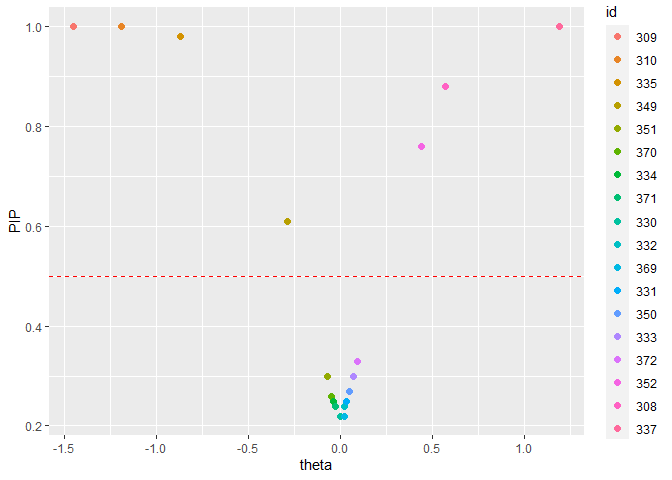
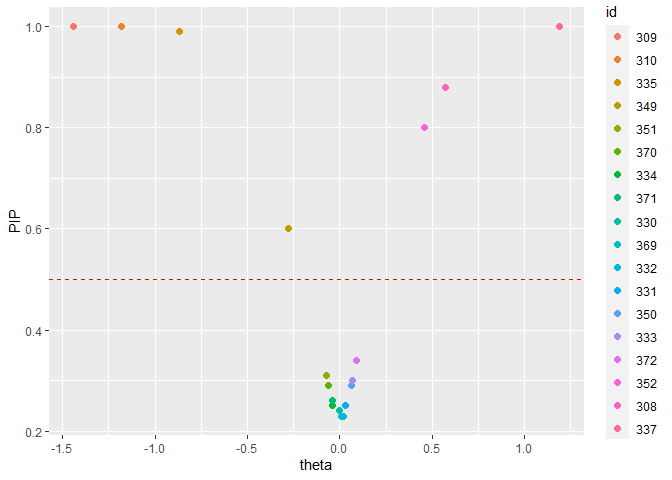
update README

diff --git a/README.md b/README.md
@@ -58,9 +58,9 @@ posterior_summary(alpha, ci = 0.90, digits = 2)
 #> Call: ss_ranef_alpha(y = d$y, unit = d$Subject)
 #> 
 #>       Post.mean q05   q95 
-#> alpha 0.09      -0.08 0.25
+#> alpha 0.08      -0.08 0.24
 #> sigma 0.79       0.72 0.86
-#> tau   1.00       0.62 1.63
+#> tau   0.95       0.62 1.41
 ```
 
 ``` r
@@ -69,24 +69,24 @@ ranef_summary(alpha, ci = 0.95, digits = 2)
 #> Call: ss_ranef_alpha(y = d$y, unit = d$Subject)
 #> 
 #>           Post.mean q025  q975  PIP  BF_10   BF_01
-#> theta_308  0.57      0.00  1.12 0.88    7.25 0.14 
-#> theta_309 -1.45     -1.97 -0.92 1.00     Inf 0.00 
-#> theta_310 -1.19     -1.71 -0.65 1.00 1999.00 0.00 
-#> theta_330  0.00     -0.32  0.29 0.22    0.28 3.58 
-#> theta_331  0.03     -0.23  0.44 0.25    0.34 2.94 
-#> theta_332  0.02     -0.26  0.40 0.24    0.31 3.21 
-#> theta_333  0.07     -0.11  0.60 0.30    0.42 2.38 
-#> theta_334 -0.04     -0.48  0.17 0.25    0.33 3.05 
-#> theta_335 -0.87     -1.40 -0.26 0.98   60.54 0.02 
-#> theta_337  1.19      0.66  1.69 1.00     Inf 0.00 
-#> theta_349 -0.29     -0.93  0.00 0.61    1.54 0.65 
-#> theta_350  0.05     -0.14  0.52 0.27    0.36 2.75 
-#> theta_351 -0.07     -0.58  0.14 0.30    0.42 2.39 
-#> theta_352  0.44      0.00  1.05 0.76    3.24 0.31 
-#> theta_369  0.02     -0.23  0.39 0.22    0.29 3.47 
-#> theta_370 -0.05     -0.56  0.15 0.26    0.35 2.89 
-#> theta_371 -0.03     -0.46  0.17 0.24    0.31 3.20 
-#> theta_372  0.09     -0.11  0.63 0.33    0.49 2.06
+#> theta_308  0.57      0.00  1.13 0.88    7.33 0.14 
+#> theta_309 -1.44     -1.96 -0.92 1.00     Inf 0.00 
+#> theta_310 -1.18     -1.70 -0.68 1.00 3999.00 0.00 
+#> theta_330  0.00     -0.31  0.32 0.24    0.31 3.22 
+#> theta_331  0.03     -0.20  0.45 0.25    0.33 3.04 
+#> theta_332  0.02     -0.23  0.42 0.23    0.31 3.26 
+#> theta_333  0.07     -0.11  0.60 0.30    0.43 2.30 
+#> theta_334 -0.04     -0.49  0.17 0.25    0.34 2.98 
+#> theta_335 -0.87     -1.38 -0.32 0.99  116.65 0.01 
+#> theta_337  1.19      0.69  1.69 1.00 1999.00 0.00 
+#> theta_349 -0.28     -0.92  0.00 0.60    1.47 0.68 
+#> theta_350  0.06     -0.15  0.57 0.29    0.40 2.49 
+#> theta_351 -0.07     -0.57  0.14 0.31    0.44 2.28 
+#> theta_352  0.46      0.00  1.06 0.80    4.13 0.24 
+#> theta_369  0.01     -0.26  0.37 0.23    0.30 3.30 
+#> theta_370 -0.06     -0.56  0.14 0.29    0.41 2.42 
+#> theta_371 -0.04     -0.47  0.16 0.26    0.34 2.90 
+#> theta_372  0.09     -0.10  0.63 0.34    0.52 1.92
 ```
 
 ``` r
@@ -119,12 +119,12 @@ posterior_summary(beta, digits = 2)
 #> Call: ss_ranef_beta(y = d$y, X = d$Days, unit = d$Subject)
 #> 
 #>       Post.mean q05   q95  
-#> alpha -0.83     -1.02 -0.64
-#> beta   0.18      0.15  0.22
-#> sigma  0.47      0.42  0.51
-#> tau1   0.43      0.26  0.65
-#> tau2   0.17      0.09  0.26
-#> rho    0.11     -0.43  0.64
+#> alpha -0.85     -1.05 -0.64
+#> beta   0.19      0.15  0.23
+#> sigma  0.47      0.43  0.52
+#> tau1   0.42      0.23  0.67
+#> tau2   0.17      0.10  0.34
+#> rho    0.17     -0.37  0.83
 ```
 
 ``` r
@@ -133,42 +133,42 @@ ranef_summary(beta, digits = 2)
 #> Call: ss_ranef_beta(y = d$y, X = d$Days, unit = d$Subject)
 #> 
 #>            Post.mean q05   q95   PIP  BF_10  BF_01
-#> theta1_308  0.00     -0.40  0.40   NA     NA   NA 
-#> theta1_309 -0.63     -1.06 -0.21   NA     NA   NA 
-#> theta1_310 -0.66     -1.17 -0.19   NA     NA   NA 
-#> theta1_330  0.31     -0.09  0.78   NA     NA   NA 
-#> theta1_331  0.26     -0.09  0.68   NA     NA   NA 
-#> theta1_332  0.14     -0.18  0.47   NA     NA   NA 
-#> theta1_333  0.28     -0.04  0.62   NA     NA   NA 
-#> theta1_334 -0.08     -0.41  0.24   NA     NA   NA 
-#> theta1_335  0.02     -0.37  0.44   NA     NA   NA 
-#> theta1_337  0.52      0.11  0.95   NA     NA   NA 
-#> theta1_349 -0.37     -0.72 -0.05   NA     NA   NA 
-#> theta1_350 -0.21     -0.66  0.24   NA     NA   NA 
-#> theta1_351 -0.03     -0.37  0.35   NA     NA   NA 
-#> theta1_352  0.43      0.02  0.82   NA     NA   NA 
-#> theta1_369  0.09     -0.23  0.42   NA     NA   NA 
-#> theta1_370 -0.36     -0.80  0.04   NA     NA   NA 
-#> theta1_371 -0.03     -0.37  0.32   NA     NA   NA 
-#> theta1_372  0.27     -0.07  0.60   NA     NA   NA 
-#> theta2_308  0.17      0.09  0.26 0.99 165.67 0.01 
-#> theta2_309 -0.17     -0.25 -0.08 1.00 570.43 0.00 
-#> theta2_310 -0.10     -0.20  0.00 0.83   4.76 0.21 
-#> theta2_330 -0.06     -0.16  0.00 0.65   1.88 0.53 
-#> theta2_331 -0.02     -0.11  0.00 0.40   0.66 1.51 
-#> theta2_332  0.00     -0.05  0.03 0.24   0.32 3.11 
-#> theta2_333  0.00     -0.04  0.03 0.23   0.30 3.32 
-#> theta2_334  0.01     -0.02  0.07 0.29   0.41 2.43 
+#> theta1_308  0.03     -0.39  0.40   NA     NA   NA 
+#> theta1_309 -0.59     -1.05 -0.19   NA     NA   NA 
+#> theta1_310 -0.63     -1.14 -0.19   NA     NA   NA 
+#> theta1_330  0.30     -0.10  0.81   NA     NA   NA 
+#> theta1_331  0.26     -0.10  0.71   NA     NA   NA 
+#> theta1_332  0.14     -0.19  0.48   NA     NA   NA 
+#> theta1_333  0.26     -0.05  0.60   NA     NA   NA 
+#> theta1_334 -0.07     -0.38  0.23   NA     NA   NA 
+#> theta1_335  0.02     -0.38  0.46   NA     NA   NA 
+#> theta1_337  0.55      0.16  0.99   NA     NA   NA 
+#> theta1_349 -0.36     -0.72 -0.04   NA     NA   NA 
+#> theta1_350 -0.15     -0.61  0.29   NA     NA   NA 
+#> theta1_351 -0.04     -0.39  0.36   NA     NA   NA 
+#> theta1_352  0.43      0.00  0.86   NA     NA   NA 
+#> theta1_369  0.10     -0.21  0.43   NA     NA   NA 
+#> theta1_370 -0.31     -0.79  0.08   NA     NA   NA 
+#> theta1_371 -0.04     -0.37  0.29   NA     NA   NA 
+#> theta1_372  0.26     -0.06  0.62   NA     NA   NA 
+#> theta2_308  0.17      0.09  0.25 1.00 499.00 0.00 
+#> theta2_309 -0.18     -0.26 -0.08 0.99  84.11 0.01 
+#> theta2_310 -0.11     -0.20  0.00 0.86   6.33 0.16 
+#> theta2_330 -0.06     -0.16  0.00 0.66   1.93 0.52 
+#> theta2_331 -0.02     -0.12  0.00 0.41   0.68 1.46 
+#> theta2_332  0.00     -0.04  0.03 0.24   0.31 3.24 
+#> theta2_333  0.00     -0.04  0.05 0.26   0.36 2.79 
+#> theta2_334  0.01     -0.02  0.06 0.24   0.32 3.09 
 #> theta2_335 -0.20     -0.28 -0.12 1.00    Inf 0.00 
-#> theta2_337  0.17      0.09  0.26 0.99 141.86 0.01 
-#> theta2_349  0.01     -0.02  0.06 0.25   0.33 3.05 
-#> theta2_350  0.11      0.00  0.20 0.90   9.44 0.11 
-#> theta2_351 -0.03     -0.12  0.00 0.42   0.73 1.37 
-#> theta2_352  0.05      0.00  0.14 0.58   1.37 0.73 
-#> theta2_369  0.01     -0.02  0.06 0.26   0.35 2.86 
-#> theta2_370  0.06      0.00  0.16 0.69   2.24 0.45 
-#> theta2_371 -0.01     -0.06  0.02 0.26   0.35 2.89 
-#> theta2_372  0.01     -0.01  0.08 0.28   0.40 2.52
+#> theta2_337  0.17      0.08  0.25 0.98  43.44 0.02 
+#> theta2_349  0.00     -0.03  0.07 0.27   0.37 2.72 
+#> theta2_350  0.10      0.00  0.20 0.86   6.09 0.16 
+#> theta2_351 -0.02     -0.11  0.00 0.41   0.70 1.44 
+#> theta2_352  0.04      0.00  0.14 0.56   1.27 0.78 
+#> theta2_369  0.00     -0.02  0.06 0.24   0.31 3.18 
+#> theta2_370  0.05      0.00  0.16 0.58   1.39 0.72 
+#> theta2_371  0.00     -0.06  0.01 0.24   0.32 3.13 
+#> theta2_372  0.01     -0.02  0.07 0.28   0.39 2.55
 ```
 
 ``` r
@@ -182,3 +182,75 @@ pip_plot(beta)
 ```
 
 <img src="man/figures/README-unnamed-chunk-9-1.png" width="100%" />
+
+## Priors
+
+Priors can be passed on to either of the `ss_ranef` functions through a
+named list and using JAGS code, e.g.,
+
+``` r
+# change prior for mean intercept
+priors <- list(alpha = "alpha ~ dt(0, 1, 3)")
+
+fit <- ss_ranef_alpha(y = d$y, unit = d$Subject, priors = priors)
+#> Compiling model graph
+#>    Resolving undeclared variables
+#>    Allocating nodes
+#> Graph information:
+#>    Observed stochastic nodes: 180
+#>    Unobserved stochastic nodes: 39
+#>    Total graph size: 485
+#> 
+#> Initializing model
+ranef_summary(fit)
+#> Linear mixed model fit with SSranef
+#> Call: ss_ranef_alpha(y = d$y, unit = d$Subject, priors = priors)
+#> 
+#>           Post.mean q05   q95   PIP  BF_10  BF_01
+#> theta_308  0.57      0.00  1.05 0.88   7.42 0.13 
+#> theta_309 -1.45     -1.88 -1.00 1.00    Inf 0.00 
+#> theta_310 -1.19     -1.62 -0.76 1.00 999.00 0.00 
+#> theta_330  0.00     -0.18  0.18 0.20   0.26 3.91 
+#> theta_331  0.03     -0.12  0.33 0.25   0.33 3.07 
+#> theta_332  0.02     -0.12  0.27 0.23   0.30 3.33 
+#> theta_333  0.07      0.00  0.47 0.28   0.39 2.59 
+#> theta_334 -0.03     -0.34  0.07 0.23   0.31 3.27 
+#> theta_335 -0.86     -1.29 -0.41 0.99  92.02 0.01 
+#> theta_337  1.19      0.77  1.63 1.00    Inf 0.00 
+#> theta_349 -0.28     -0.83  0.00 0.59   1.46 0.69 
+#> theta_350  0.05     -0.01  0.40 0.26   0.35 2.87 
+#> theta_351 -0.08     -0.49  0.03 0.32   0.48 2.10 
+#> theta_352  0.45      0.00  0.96 0.78   3.63 0.28 
+#> theta_369  0.01     -0.13  0.25 0.22   0.29 3.48 
+#> theta_370 -0.06     -0.45  0.03 0.28   0.39 2.55 
+#> theta_371 -0.04     -0.35  0.07 0.25   0.34 2.94 
+#> theta_372  0.08      0.00  0.52 0.31   0.46 2.18
+```
+
+## Building on top of SSranef models
+
+The code for each model can also be extracted to make more extensive
+modifications or build more complex models
+
+``` r
+jags_model_text <- fit$model_text
+cat(jags_model_text)
+#> model{
+#>   for (i in 1:N) {
+#>     # likelihood
+#>     y[i] ~ dnorm(alpha_j[unit[i]], precision)
+#>   }
+#>   for (j in 1:J) {
+#>     gamma[j] ~ dbern(0.5)
+#>     # non-centered parameterization
+#>     alpha_raw[j] ~ dnorm(0, 1)
+#>     theta[j] <- tau * alpha_raw[j] * gamma[j]
+#>     alpha_j[j] <- alpha + theta[j]
+#>     lambda[j] <- (tau^2 / (tau^2 + sigma^2/n_j[j])) * gamma[j]
+#>   }
+#>   alpha ~ dt(0, 1, 3)
+#>   tau ~ dt(0, 1, 3)T(0, )
+#>   precision <- pow(sigma, -2)
+#>   sigma ~ dt(0, 1, 3)T(0, )
+#> }
+```
